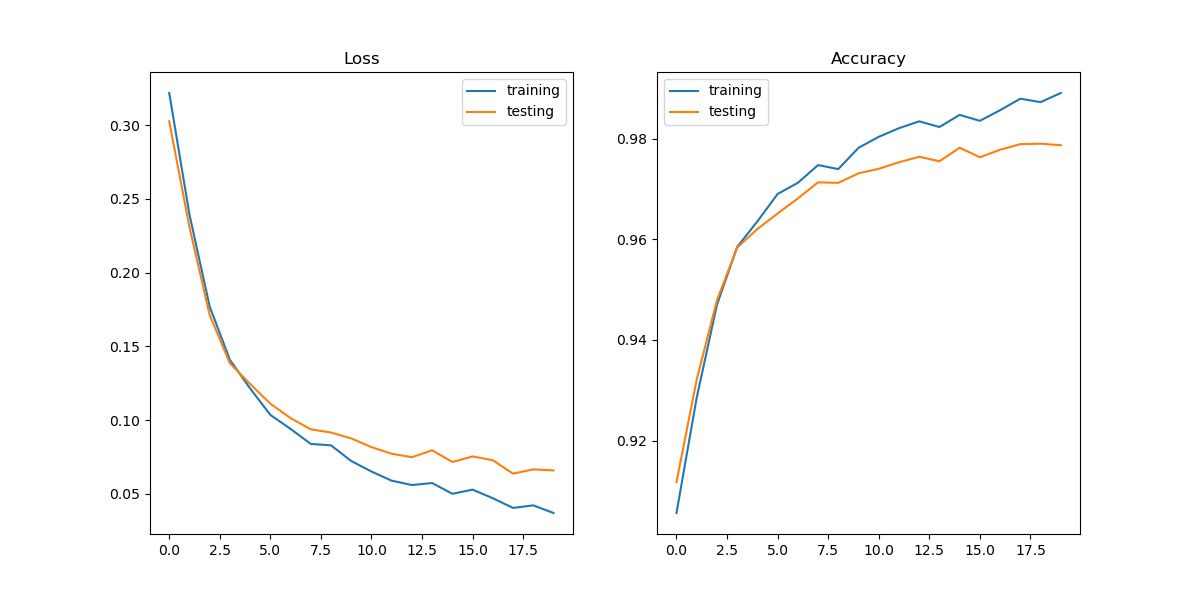
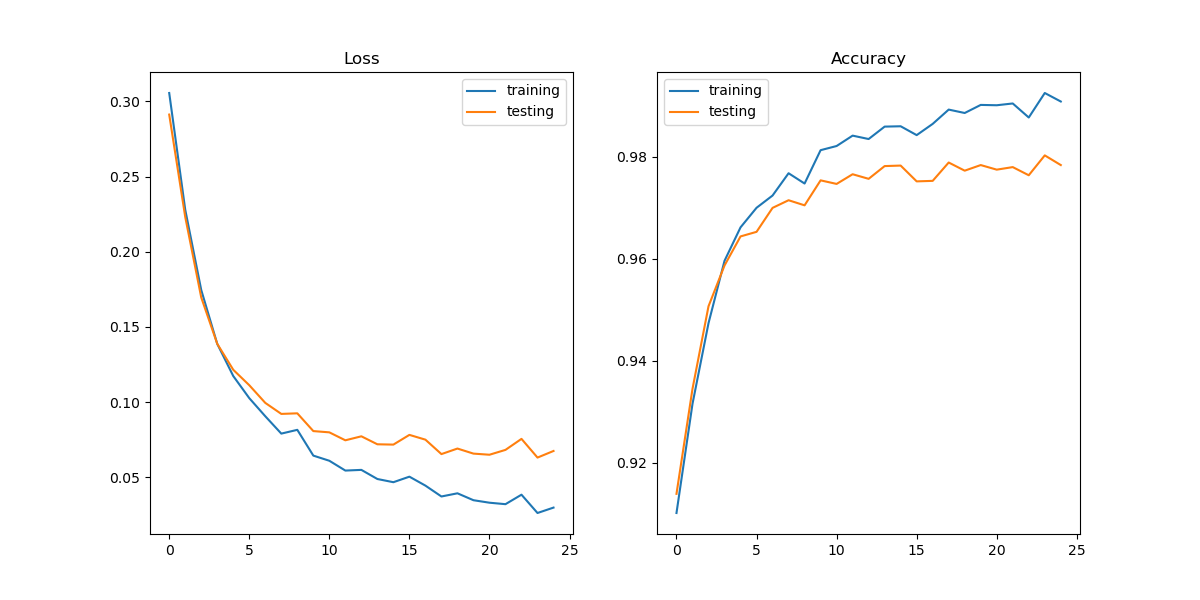
KZ-72: added double convolution model

diff --git a/pytorch/mnist/__init__.py b/pytorch/mnist/__init__.py
@@ -32,7 +32,7 @@ def run_training_pipeline(model, model_name):
     test_loss_list = []
     test_acc_list = []
 
-    for epoch in tqdm(range(20)):
+    for epoch in tqdm(range(25)):
         model.train()
         for x, y in train_dataloader:
             y_hat = model(x)
@@ -66,15 +66,28 @@ def run():
     model_linear = nn.Sequential(
         nn.Flatten(), nn.Linear(784, 128), nn.ReLU(), nn.Linear(128, 10)
     )
-    model_convolution = nn.Sequential(
-        nn.Conv2d(in_channels=1, out_channels=6, kernel_size=3),
+
+    model_conv_linear = nn.Sequential(
+        nn.Conv2d(in_channels=1, out_channels=8, kernel_size=3, padding=1),
         nn.MaxPool2d(kernel_size=2),
         nn.ReLU(),
         nn.Flatten(),
-        nn.Linear(1014, 128),
+        nn.Linear(1568, 128),
         nn.ReLU(),
         nn.Linear(128, 10),
     )
 
+    model_conv_conv = nn.Sequential(
+        nn.Conv2d(in_channels=1, out_channels=8, kernel_size=3, padding=1),
+        nn.MaxPool2d(kernel_size=2),
+        nn.ReLU(),
+        nn.Conv2d(in_channels=8, out_channels=8, kernel_size=3, padding=1),
+        nn.MaxPool2d(kernel_size=2),
+        nn.ReLU(),
+        nn.Flatten(),
+        nn.Linear(392, 10),
+    )
+
     run_training_pipeline(model_linear, "linear")
-    run_training_pipeline(model_convolution, "conv_linear")
+    run_training_pipeline(model_conv_linear, "conv_linear")
+    run_training_pipeline(model_conv_conv, "conv_conv")
